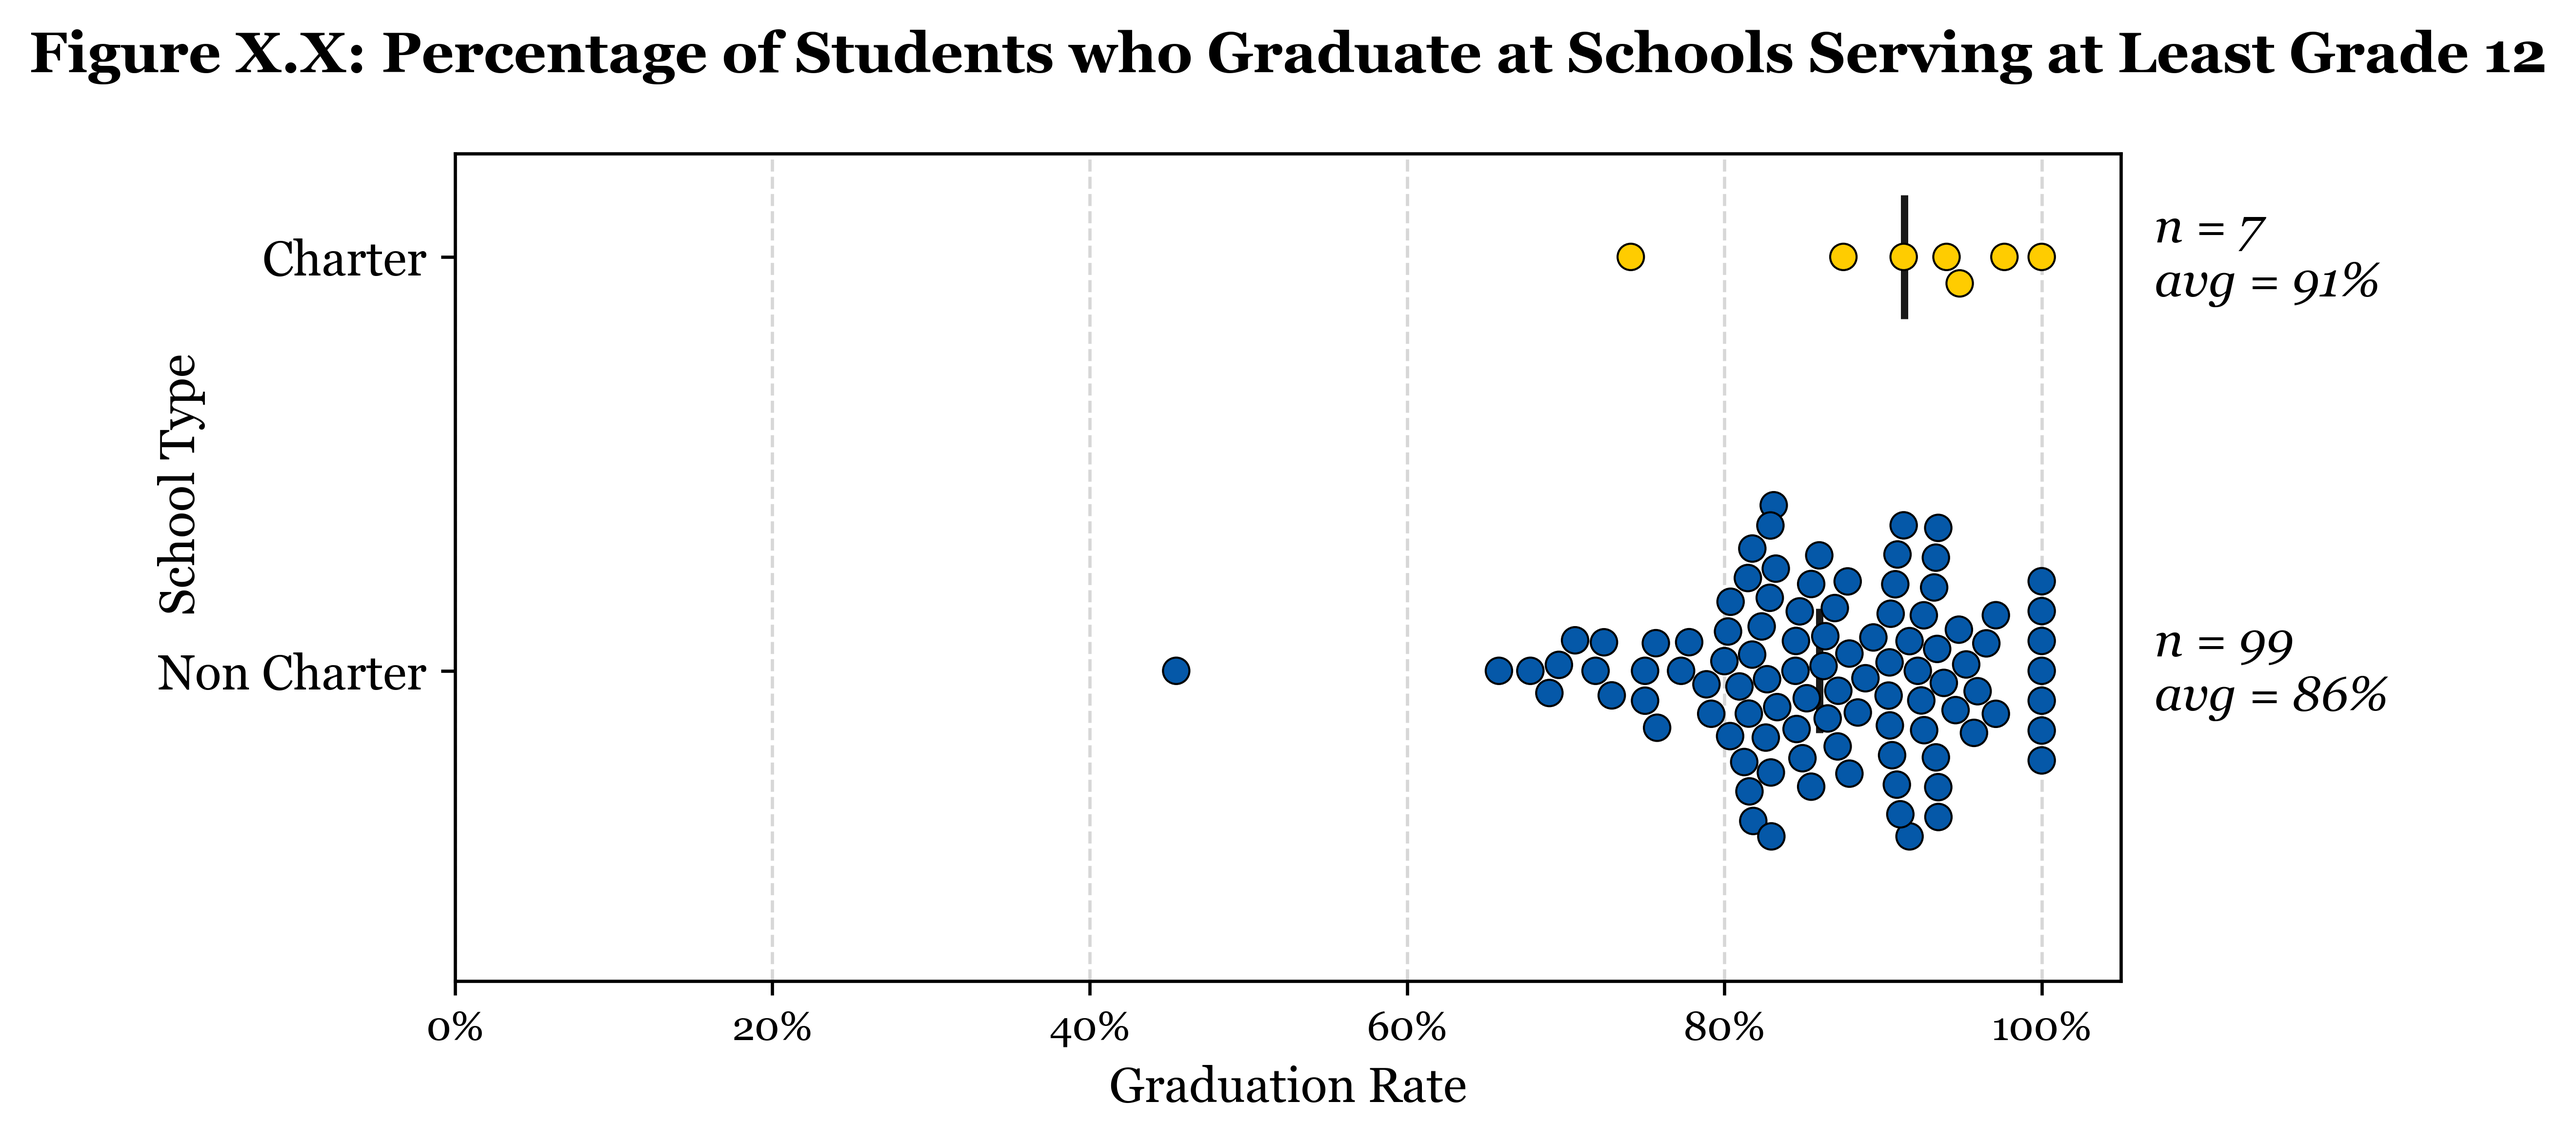
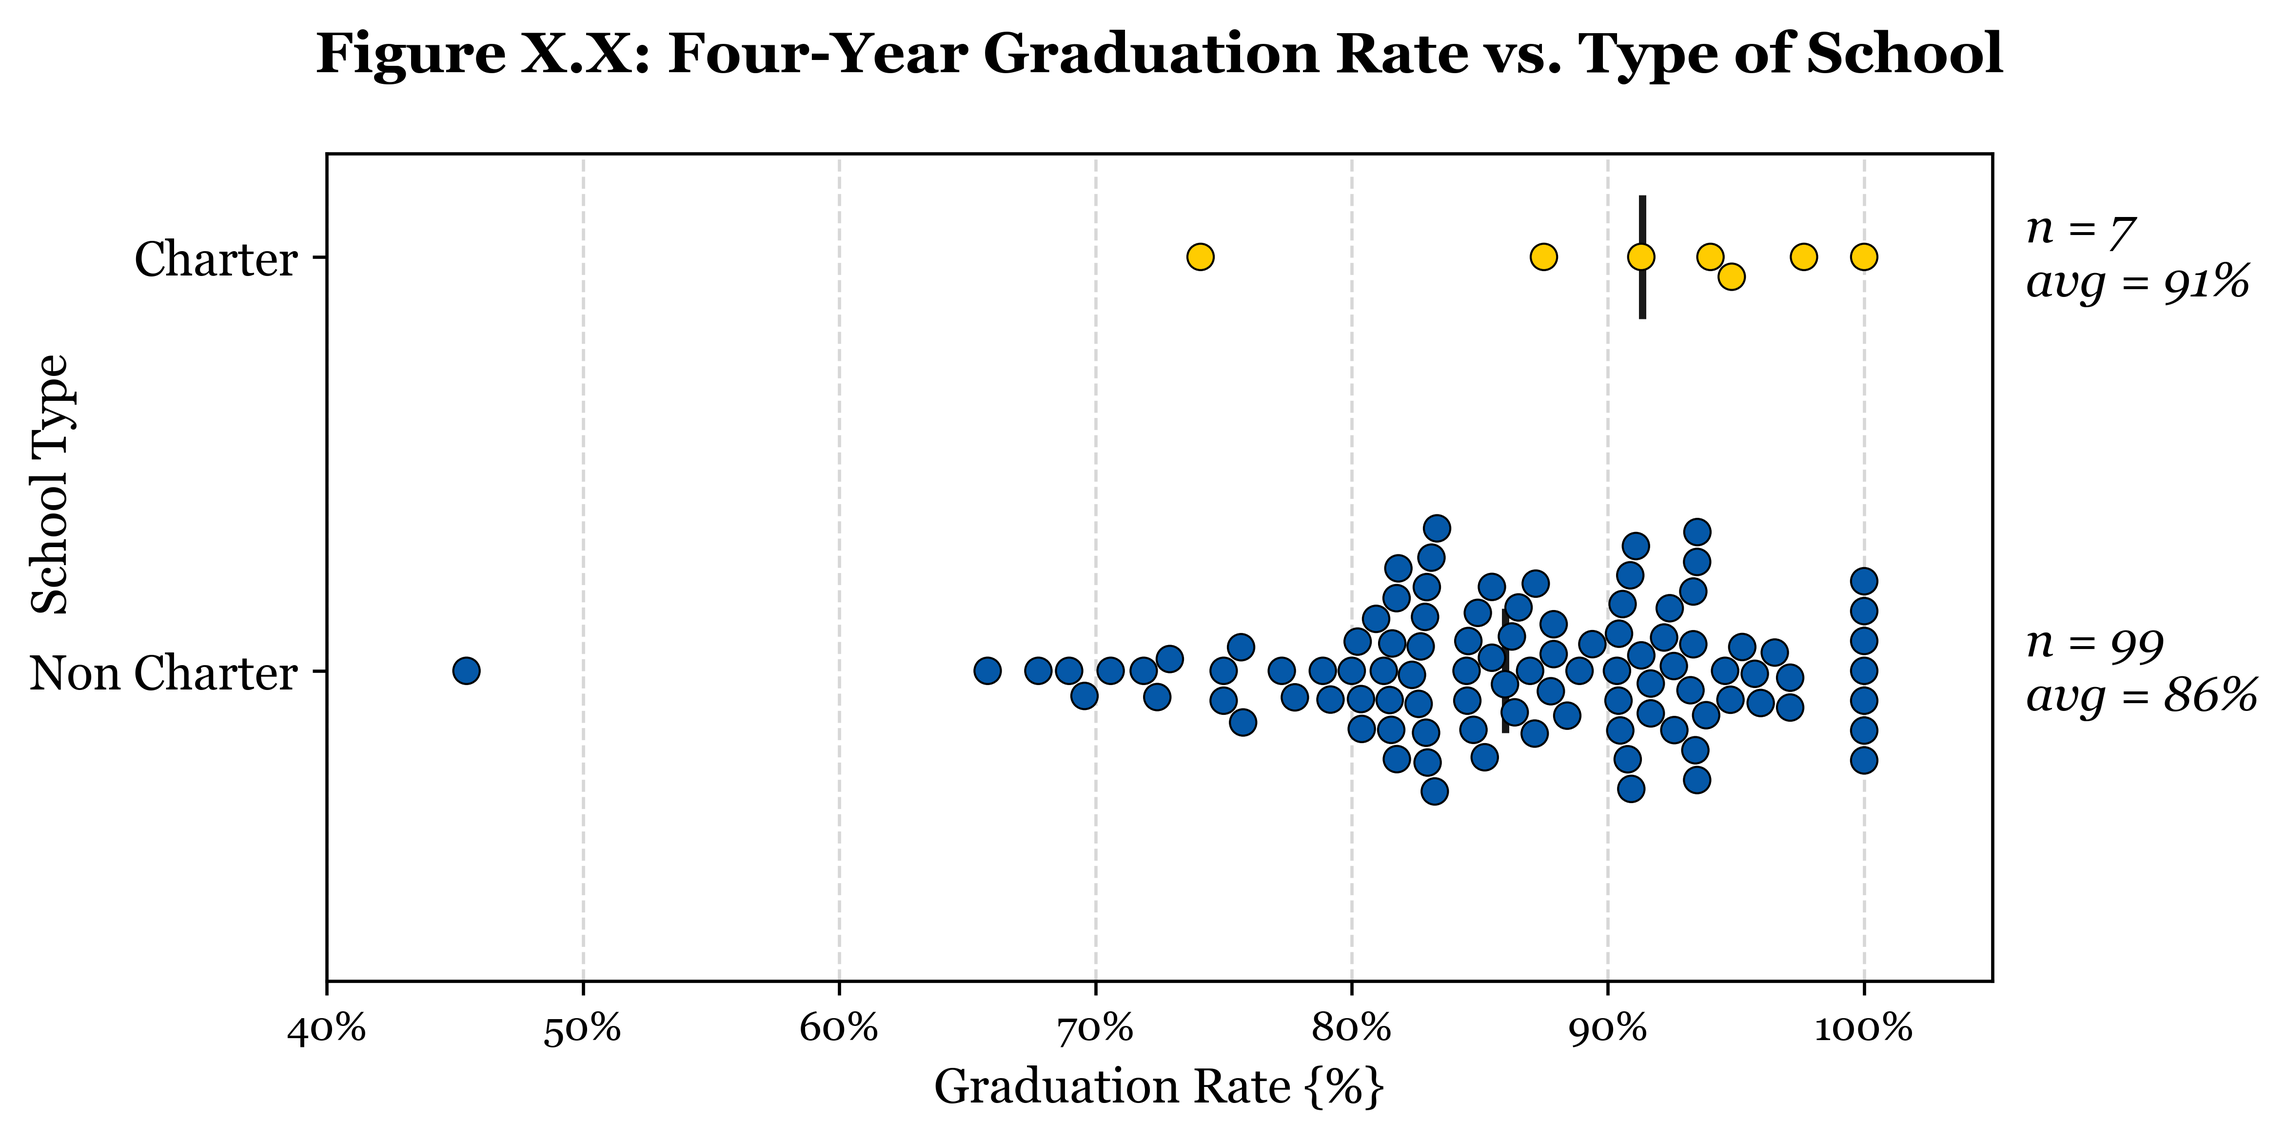
I forget everything I did but something

diff --git a/grad_rate.py b/grad_rate.py
@@ -1,4 +1,7 @@
 from utils import make_swarm_plot
+from utils import run_t_test
+import pandas as pd
+from scipy.stats import ttest_ind
 
 # Total Incidence
 make_swarm_plot(
@@ -6,12 +9,39 @@ make_swarm_plot(
             sheet_name="Graduation Rate",
             score_column="Rate (%)",
             group_column="Comparison School Type",
-            title=f"Figure X.X: Percentage of Students who Graduate at Schools Serving at Least Grade 12",
-            xlabel="Graduation Rate",
+            title=f"Figure X.X: Four-Year Graduation Rate vs. Type of School",
+            xlabel="Graduation Rate {%}",
             output_path=f"/Users/willbarmby/Python-Projects/charts/graphs/Graduation_Rate.png",
             figsize=(8,4),
-            # xlim=(.4,1.05),
-            xlim=(0,1.05),
+            xlim=(.4,1.05),
             ylim=(-.75,1.25),
             dot_size=6.5,
 )
+
+run_t_test(
+    score_column="Rate (%)",
+    sheet_name="Graduation Rate"
+)
+
+# group_column="Comparison School Type"
+# p_value_text = "/Users/willbarmby/Python-Projects/charts/p_vals.txt"
+
+# # Load data
+# df = pd.read_excel(excel_path, sheet_name=sheet_name)
+
+# # Drop NA and rename for plotting
+# df_plot = df[[score_column, group_column]].dropna()
+# df_plot.columns = ['Score', 'Group']
+
+# assert not df_plot.empty, "No data to plot."
+
+# charter_schools = df_plot[df_plot['Group'] == 'Charter']['Score']
+# non_charter_schools = df_plot[df_plot['Group'] == 'Non Charter']['Score']
+
+# t_test, p_value = ttest_ind(charter_schools, non_charter_schools, equal_var=False)
+
+# p_value_text = "/Users/willbarmby/Python-Projects/charts/p_vals.txt"
+# with open(p_value_text, mode='w',) as f:
+#     f.write(f"the p value for graduation rate differences:{p_value}")
+
+

diff --git a/utils.py b/utils.py
@@ -3,6 +3,7 @@ import seaborn as sns
 import matplotlib.pyplot as plt
 import matplotlib.ticker as mtick
 import os
+from scipy.stats import ttest_ind
 
 # Set global font
 plt.rcParams['font.family'] = 'Georgia'
@@ -135,3 +136,29 @@ def make_swarm_plot(
     plt.savefig(output_path, dpi=600, bbox_inches="tight")
     plt.close()
     print(f"Saved: {output_path}")
+
+
+def run_t_test(
+    score_column,
+    sheet_name,
+    excel_path = "/Users/willbarmby/Python-Projects/charts/data.xlsx",
+    group_column="Comparison School Type",
+    p_value_text = "/Users/willbarmby/Python-Projects/charts/p_vals.txt"
+):
+    # Load data
+    df = pd.read_excel(excel_path, sheet_name=sheet_name)
+
+    # Drop NA and rename for plotting
+    df_plot = df[[score_column, group_column]].dropna()
+    df_plot.columns = ['Score', 'Group']
+
+    assert not df_plot.empty, "No data to plot."
+
+    charter_schools = df_plot[df_plot['Group'] == 'Charter']['Score']
+    non_charter_schools = df_plot[df_plot['Group'] == 'Non Charter']['Score']
+
+    t_test, p_value = ttest_ind(charter_schools, non_charter_schools, equal_var=False)
+
+    p_value_text = "/Users/willbarmby/Python-Projects/charts/p_vals.txt"
+    with open(p_value_text, mode='a',) as f:
+        f.write(f"the p value for sheet: {sheet_name} : {p_value}\n")

diff --git a/post_sec_enrollment.py b/post_sec_enrollment.py
@@ -1,0 +1,14 @@
+from utils import make_swarm_plot
+
+make_swarm_plot(
+        excel_path="/Users/willbarmby/Python-Projects/charts/data.xlsx",
+        sheet_name="Post Secondary Enrollment",
+        score_column="Percentage",
+        group_column="Comparison School Type",
+        title=f"Figure X.X: Post Secondary Enrollment by School Type",
+        xlabel="Percentage of Student Who Enroll in a Post-Secondary Institution",
+        output_path=f"/Users/willbarmby/Python-Projects/charts/graphs/post_sec_enrollment.png",
+        figsize=(8,4),
+        ylim=(-.75,1.25),
+        dot_size=8
+)

diff --git a/config.py b/config.py
@@ -1,0 +1,2 @@
+# Chronic Absenteeism
+chronic_absenteeism_title = ""
